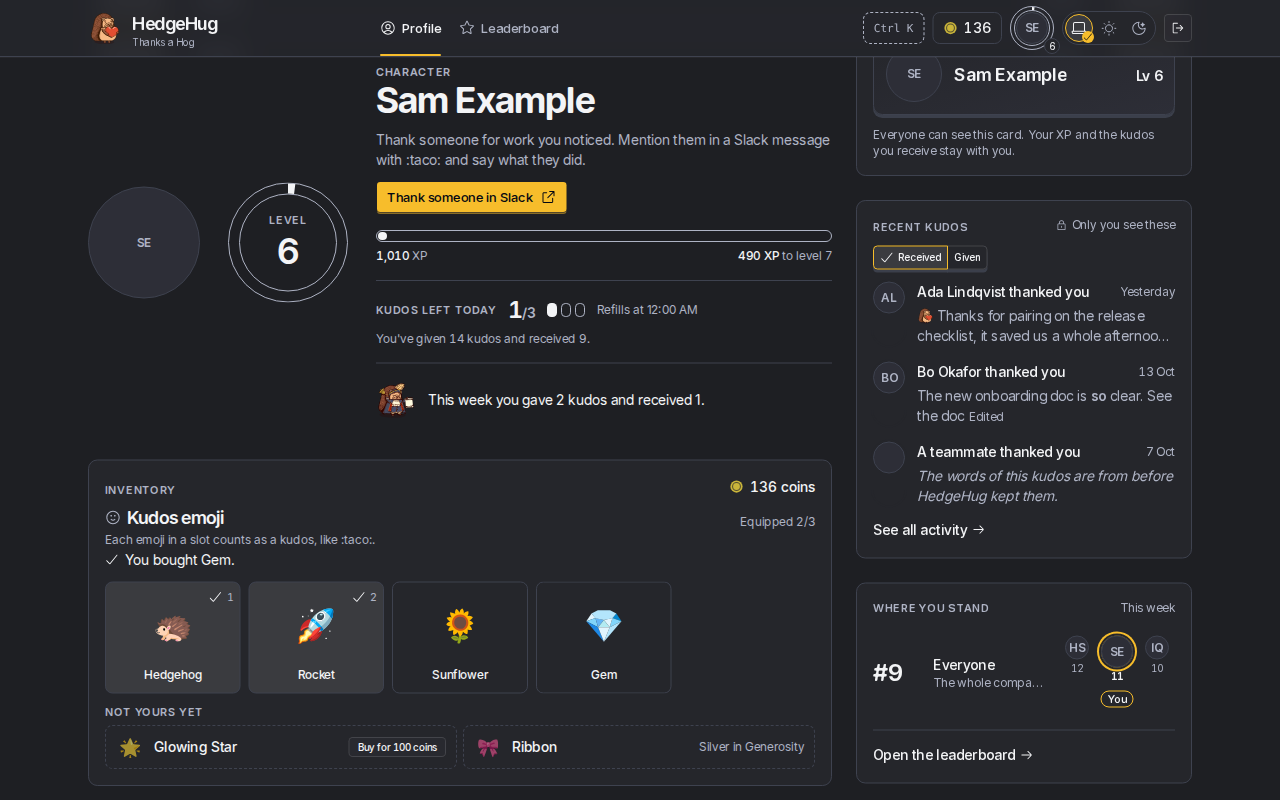
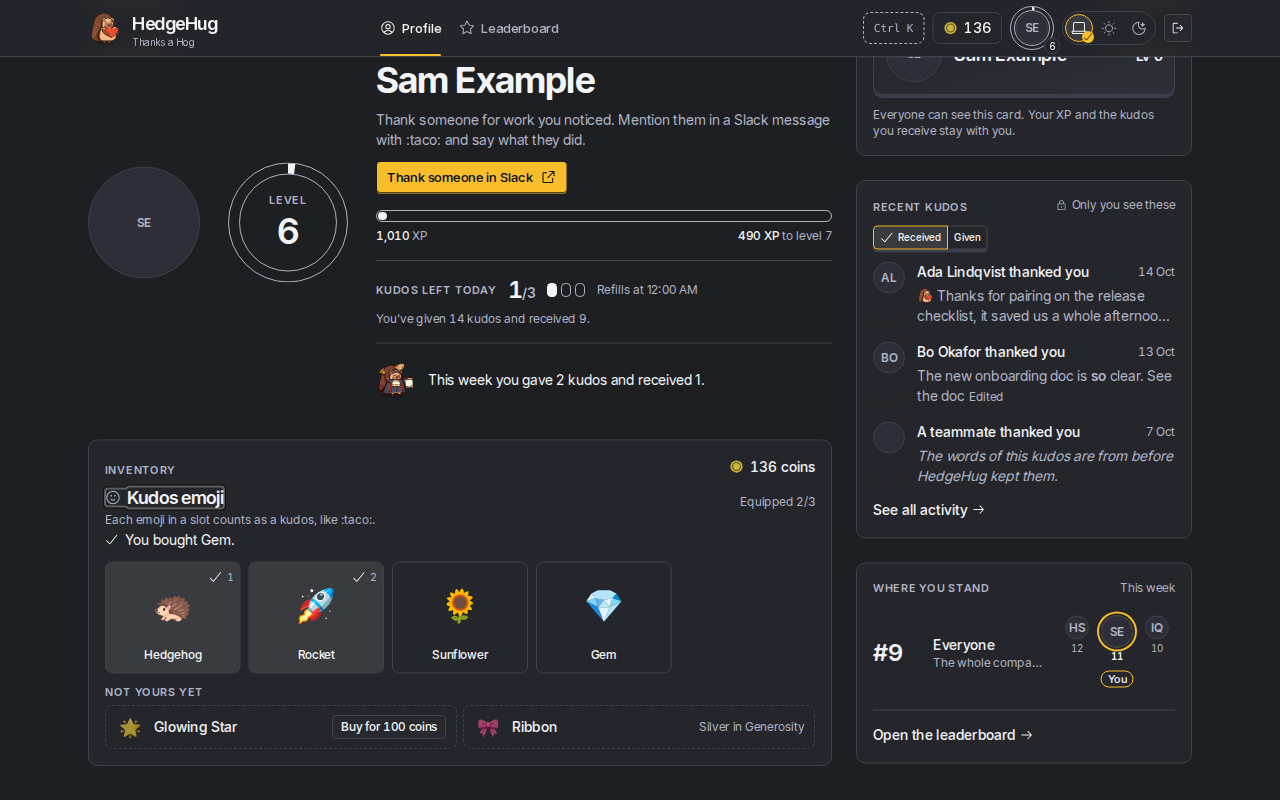
Name each Buy by its visible words, hide a bought row at the answer, size Buy for phones (#292)
Round 1's fresh-eyes review: the accessible name now starts with the visible
label (WCAG 2.5.3), the bought item leaves Not yours yet before the read
moves it, Buy is Quill's sm size (24 px), and the status line keeps its
height so an answer moves nothing.

diff --git a/website/src/buyItem.test.tsx b/website/src/buyItem.test.tsx
@@ -48,7 +48,7 @@ function buyButtons() {
 }
 
 function buyButtonFor(name: string) {
-  return within(notYoursYet()).getByRole("button", { name: new RegExp(`^(Buy ${name} for|Buying ${name})`) });
+  return within(notYoursYet()).getByRole("button", { name: new RegExp(`^(Buy for \\d+ coins|Buying…), ${name}$`) });
 }
 
 function announcement() {
@@ -76,9 +76,10 @@ describe("WS341 C4: an item on sale offers Buy for {n} coins in the inventory", 
   it("offers Buy on each item on sale, named for its item, and on nothing else", () => {
     buyWith(async () => ({ kind: "refused", reason: null }));
 
-    expect(buyButtons().map((button) => button.textContent)).toEqual(["Buy for 100 coins", "Buy for 100 coins"]);
-    expect(buyButtonFor("Glowing Star")).toHaveAccessibleName("Buy Glowing Star for 100 coins");
-    expect(buyButtonFor("Gem")).toHaveAccessibleName("Buy Gem for 100 coins");
+    expect(buyButtons().map((button) => button.textContent)).toEqual(["Buy for 100 coins, Glowing Star", "Buy for 100 coins, Gem"]);
+    for (const button of buyButtons()) expect(button.getAttribute("aria-label")).toBeNull();
+    expect(buyButtonFor("Glowing Star")).toHaveAccessibleName("Buy for 100 coins, Glowing Star");
+    expect(buyButtonFor("Gem")).toHaveAccessibleName("Buy for 100 coins, Gem");
     expect(within(notYoursYet()).getAllByRole("listitem").at(-1)).toHaveTextContent("Silver in Generosity");
     expect(within(yours()).queryByRole("button", { name: /^Buy/ })).not.toBeInTheDocument();
   });
@@ -120,7 +121,7 @@ describe("WS341 C4: an item on sale offers Buy for {n} coins in the inventory", 
 
     await user.click(buyButtonFor("Gem"));
 
-    expect(buyButtonFor("Gem")).toHaveTextContent("Buying…");
+    expect(buyButtonFor("Gem")).toHaveAccessibleName("Buying…, Gem");
     expect(buyButtonFor("Gem")).toHaveAttribute("aria-disabled", "true");
     expect(buyButtonFor("Gem")).toHaveFocus();
     expect(buyButtonFor("Glowing Star")).toHaveAttribute("aria-disabled", "true");
@@ -161,6 +162,16 @@ describe("WS341 V13: a bought item turns owned in place, never as a crate", () =
     expect(within(yours()).getByText("Rocket").closest("li")).not.toHaveClass("perk-pop");
     fireEvent.animationEnd(tile);
     expect(tile).not.toHaveClass("perk-pop");
+  });
+
+  it("takes the bought item out of Not yours yet at the answer, before the read moves it", async () => {
+    const { user } = buyWith(async () => ({ kind: "bought", item: gem }));
+
+    await user.click(buyButtonFor("Gem"));
+
+    expect(announcement()).toHaveTextContent("You bought Gem.");
+    expect(within(notYoursYet()).queryByText("Gem")).not.toBeInTheDocument();
+    expect(buyButtons()).toHaveLength(1);
   });
 
   it("names the item the purchase was for even when the read already moved it", async () => {
@@ -254,6 +265,20 @@ describe("WS87 WS341: a refusal, an error and a retry", () => {
     await user.click(buyButtonFor("Gem"));
 
     expect(requests()[1]).not.toBe(requests()[0]);
+  });
+});
+
+describe("WS339 V24: the Buy row's layout", () => {
+  it("is a small button, not an extra-small one, so a phone has a tap target", () => {
+    buyWith(async () => ({ kind: "refused", reason: null }));
+
+    for (const button of buyButtons()) expect(button).toHaveAttribute("data-size", "sm");
+  });
+
+  it("keeps the purchase's status line's height before any answer, so an answer moves nothing", () => {
+    buyWith(async () => ({ kind: "refused", reason: null }));
+
+    expect(announcement()).toHaveClass("min-h-5");
   });
 });
 

diff --git a/website/src/home/InventoryPanel.tsx b/website/src/home/InventoryPanel.tsx
@@ -36,7 +36,7 @@ function KudosEmojiSection({ inventory, kudosEmoji, coins, buyItem }: KudosEmoji
   const heading = useRef<HTMLHeadingElement>(null);
   const purchasing = useItemPurchase(buyItem, () => heading.current?.focus());
   const yours = ownedIn(inventory, purchasing);
-  const notYet = inventory.catalogue.filter(({ item }) => !yours.some(({ entry }) => entry.item === item));
+  const notYet = inventory.catalogue.filter(({ item }) => item !== purchasing.justBought && !yours.some(({ entry }) => entry.item === item));
   const equipped = inventory.slots.filter(({ item }) => item !== null).length;
   return (
     <section aria-labelledby="inventory-kudos-emoji" className="flex flex-col gap-3">
@@ -63,7 +63,7 @@ function KudosEmojiSection({ inventory, kudosEmoji, coins, buyItem }: KudosEmoji
 
 function PurchaseNotice({ notice }: { notice: ItemNotice | undefined }) {
   return (
-    <p role="status" className="flex items-center gap-1.5 text-sm">
+    <p role="status" className="flex min-h-5 items-center gap-1.5 text-sm">
       {notice?.kind === "bought" && <IconCheck aria-hidden="true" className="size-3.5 shrink-0 text-foreground" />}
       {notice?.text}
     </p>
@@ -129,16 +129,16 @@ function BuyAction({ item, price, coins, purchasing }: { item: InventoryItem; pr
   return (
     <span className="flex shrink-0 flex-col items-end gap-0.5">
       <Button
-        size="xs"
+        size="sm"
         variant="outline"
         disabled={short > 0}
         aria-disabled={busy || short > 0 || undefined}
-        aria-label={sending ? `Buying ${item.name}…` : `Buy ${item.name} for ${coinsText(price)}`}
         aria-describedby={short > 0 ? hint : undefined}
         onClick={() => purchasing.buy(item)}
         className="tabular-nums"
       >
         {sending ? "Buying…" : `Buy for ${coinsText(price)}`}
+        <span className="sr-only">{`, ${item.name}`}</span>
       </Button>
       {short > 0 && (
         <span id={hint} className="text-[11px] text-muted-foreground tabular-nums">

diff --git a/website/src/liveShell.test.tsx b/website/src/liveShell.test.tsx
@@ -586,7 +586,7 @@ describe("WS87 WS335: an item purchase never sends again by itself", () => {
     sentOverHttp.mockResolvedValue({ kind: "bought", item: "kudos-emoji-gem" });
     const { user } = renderLiveSite();
 
-    await user.click(await screen.findByRole("button", { name: "Buy Gem for 100 coins" }));
+    await user.click(await screen.findByRole("button", { name: "Buy for 100 coins, Gem" }));
 
     expect(sentOverHttp).toHaveBeenCalledExactlyOnceWith({ address: "https://happy-hog-123.convex.cloud", token: "the-session-jwt", mutation: "website/commands:buyItem", args: { item: "kudos-emoji-gem", request: expect.stringMatching(/^[0-9a-f-]{36}$/) } });
     expect(openFeatureCall).not.toHaveBeenCalled();

diff --git a/website/src/inventory.test.tsx b/website/src/inventory.test.tsx
@@ -67,7 +67,7 @@ describe("WS341 ST26: the inventory side of the home's main slot, read only", ()
     renderApp(memberWithTheInventory);
 
     const notYet = within(kudosEmoji()).getByRole("list", { name: "Not yours yet" });
-    expect(readAloudIn(notYet)).toEqual(["Glowing StarBuy for 100 coins", "GemBuy for 100 coins", "RibbonSilver in Generosity"]);
+    expect(readAloudIn(notYet)).toEqual(["Glowing StarBuy for 100 coins, Glowing Star", "GemBuy for 100 coins, Gem", "RibbonSilver in Generosity"]);
     expect(glyphsIn(notYet)).toEqual(["🌟", "💎", "🎀"]);
   });
 
